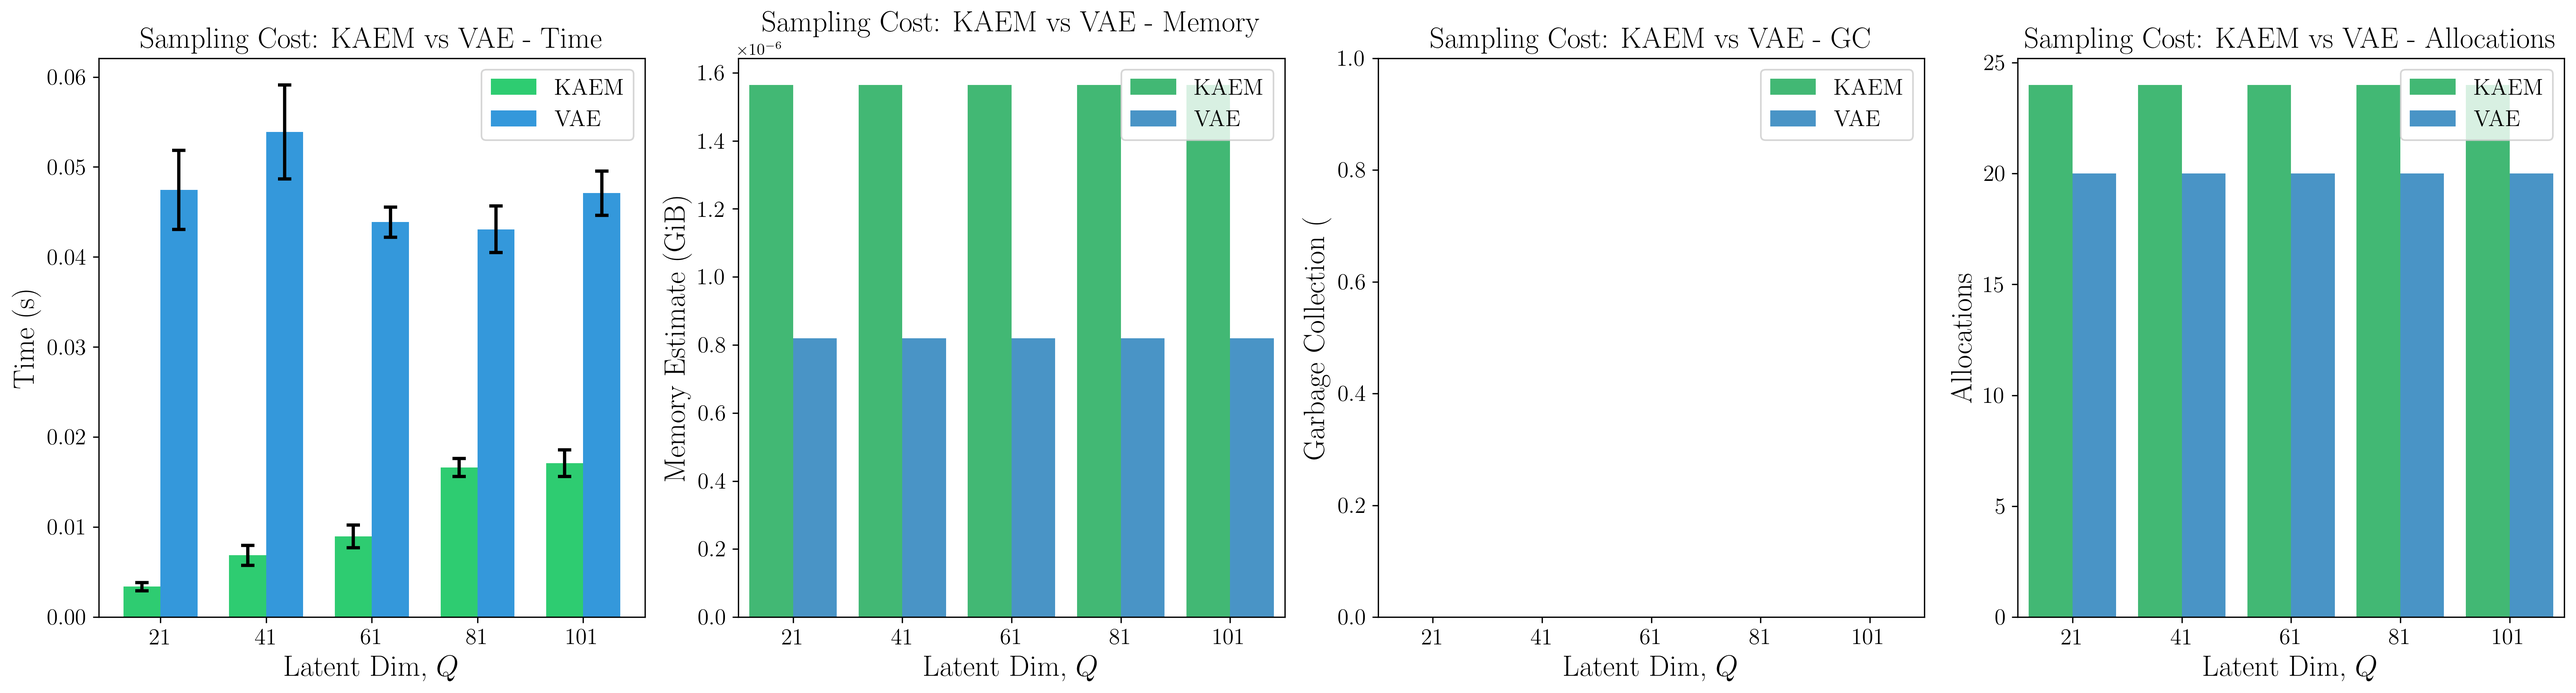
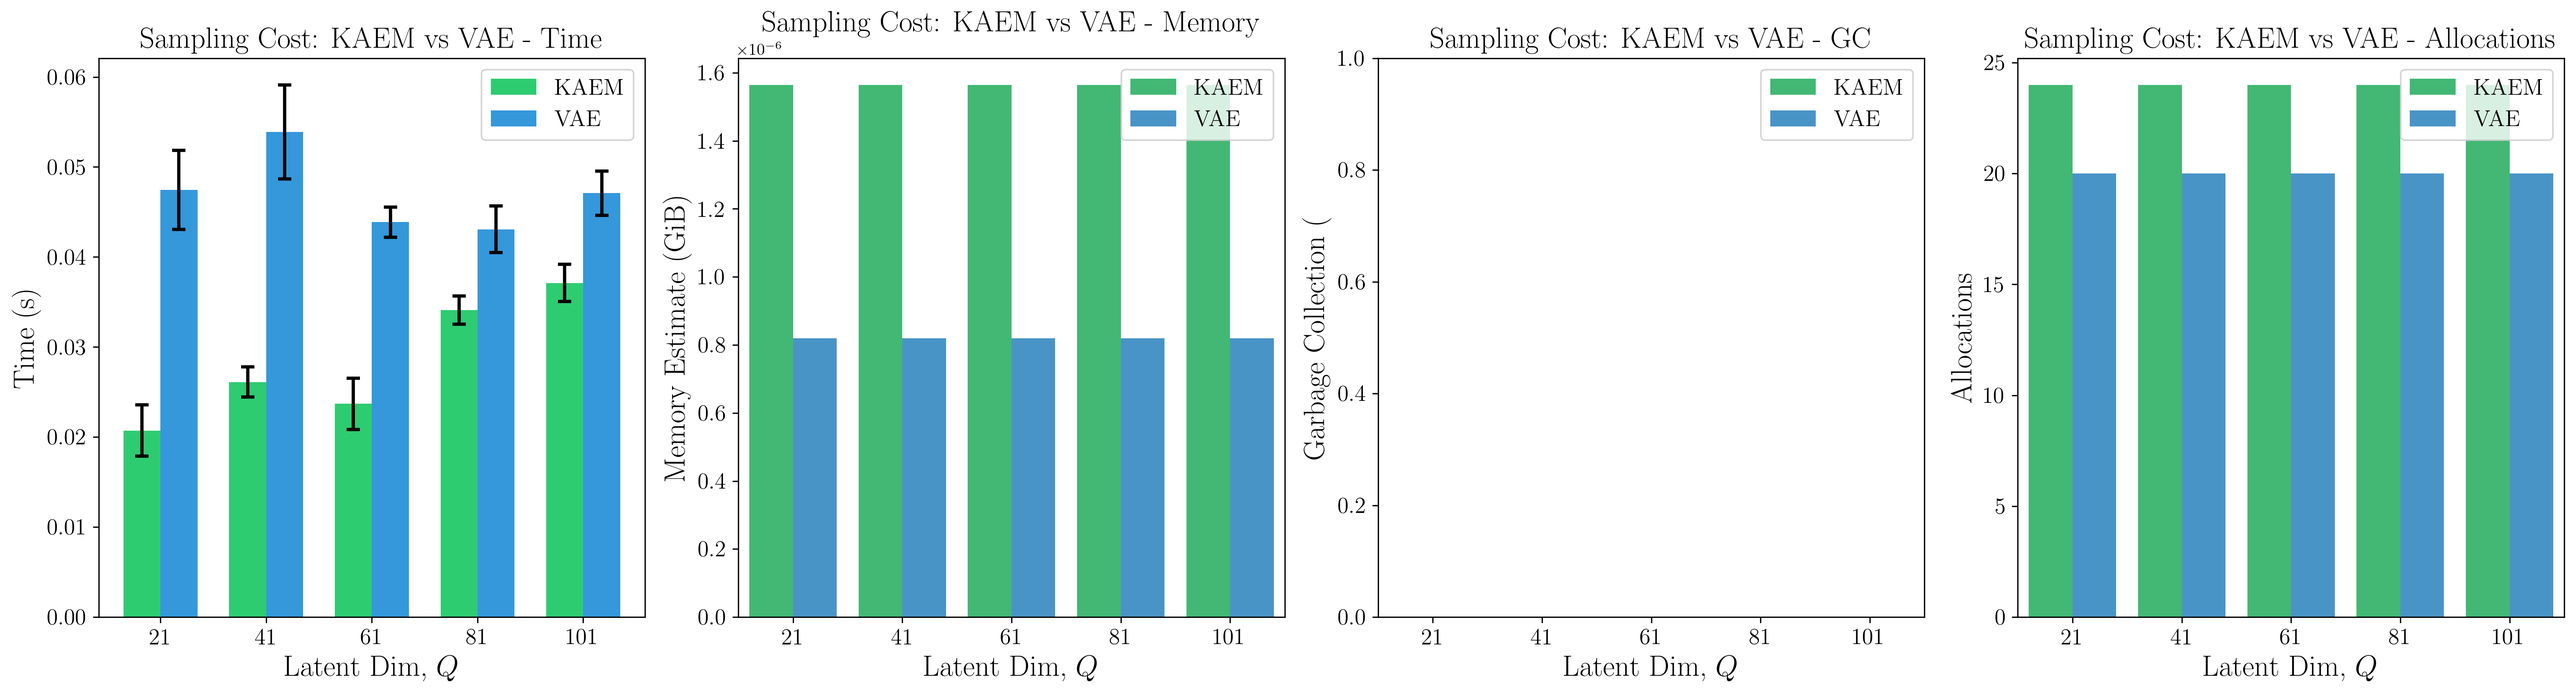
thank christ still faster

Changed region(s): [[0.0312, 0.404, 0.2496, 0.8701]]

diff --git a/plotting/benchmark/plot_cost.py b/plotting/benchmark/plot_cost.py
@@ -282,7 +282,7 @@ def plot_sampling_time_only(
 def main():
     latent_dim_df = load_csv_safe(RESULTS_DIR / "latent_dim.csv")
     temperatures_df = load_csv_safe(RESULTS_DIR / "temperatures.csv")
-    its_sampling_df = load_csv_safe(RESULTS_DIR / "ITS_sampling.csv")
+    its_sampling_df = load_csv_safe(RESULTS_DIR / "ITS_generation.csv")
 
     vae_latent_dim_df = load_csv_safe(RESULTS_DIR / "vae_latent_dim.csv")
     vae_sampling_df = load_csv_safe(RESULTS_DIR / "vae_sampling.csv")
